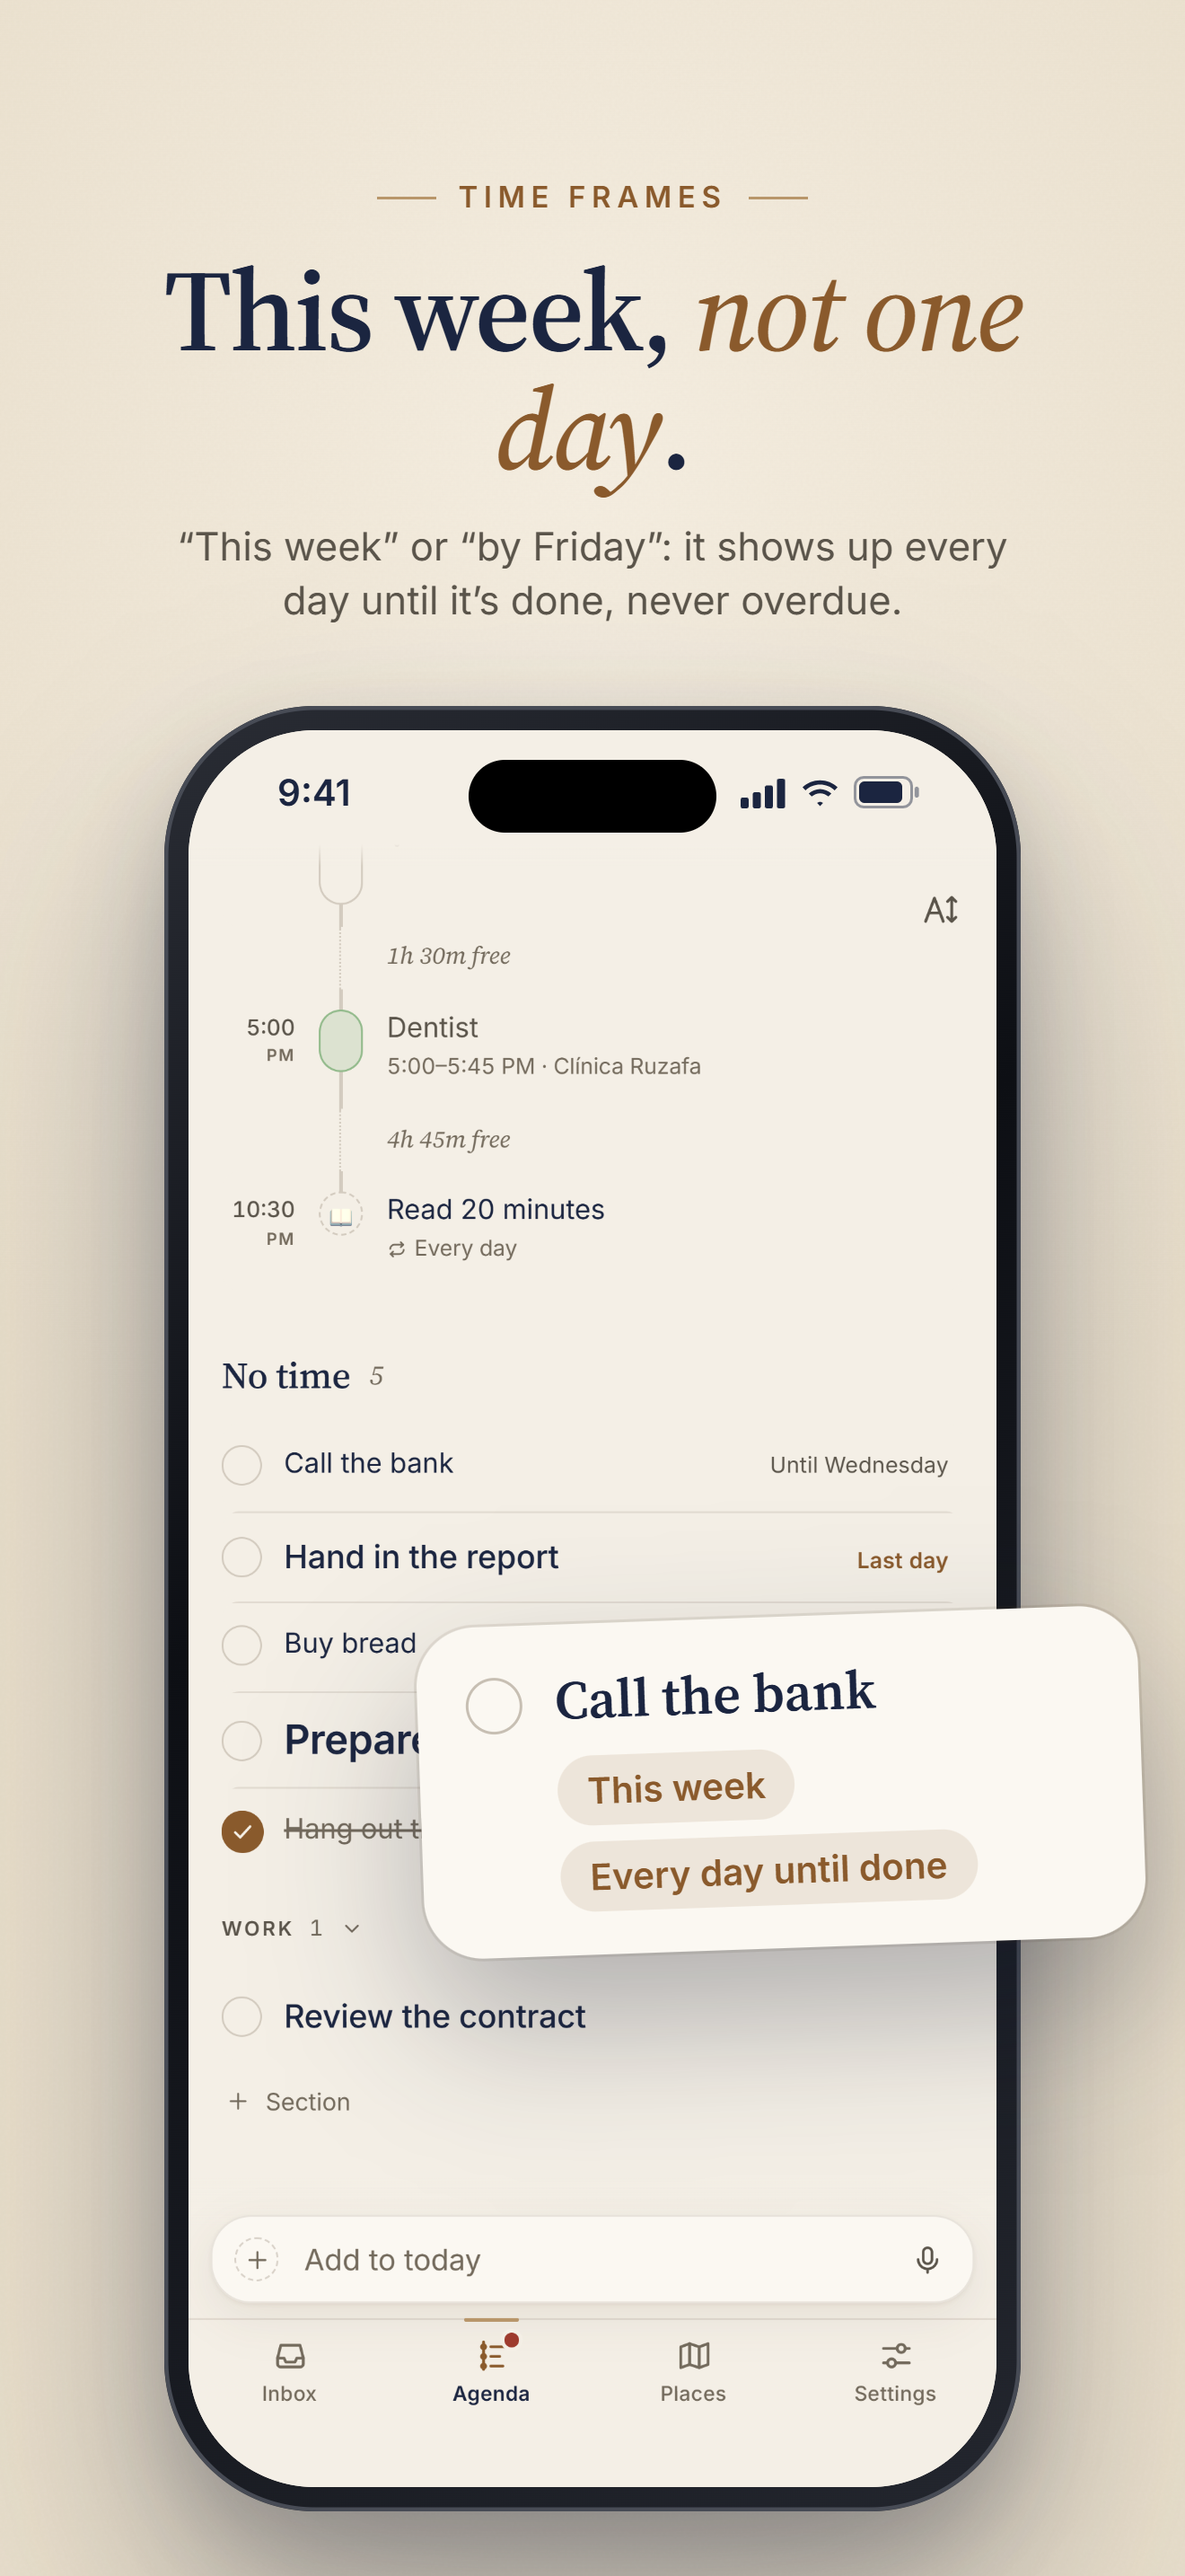
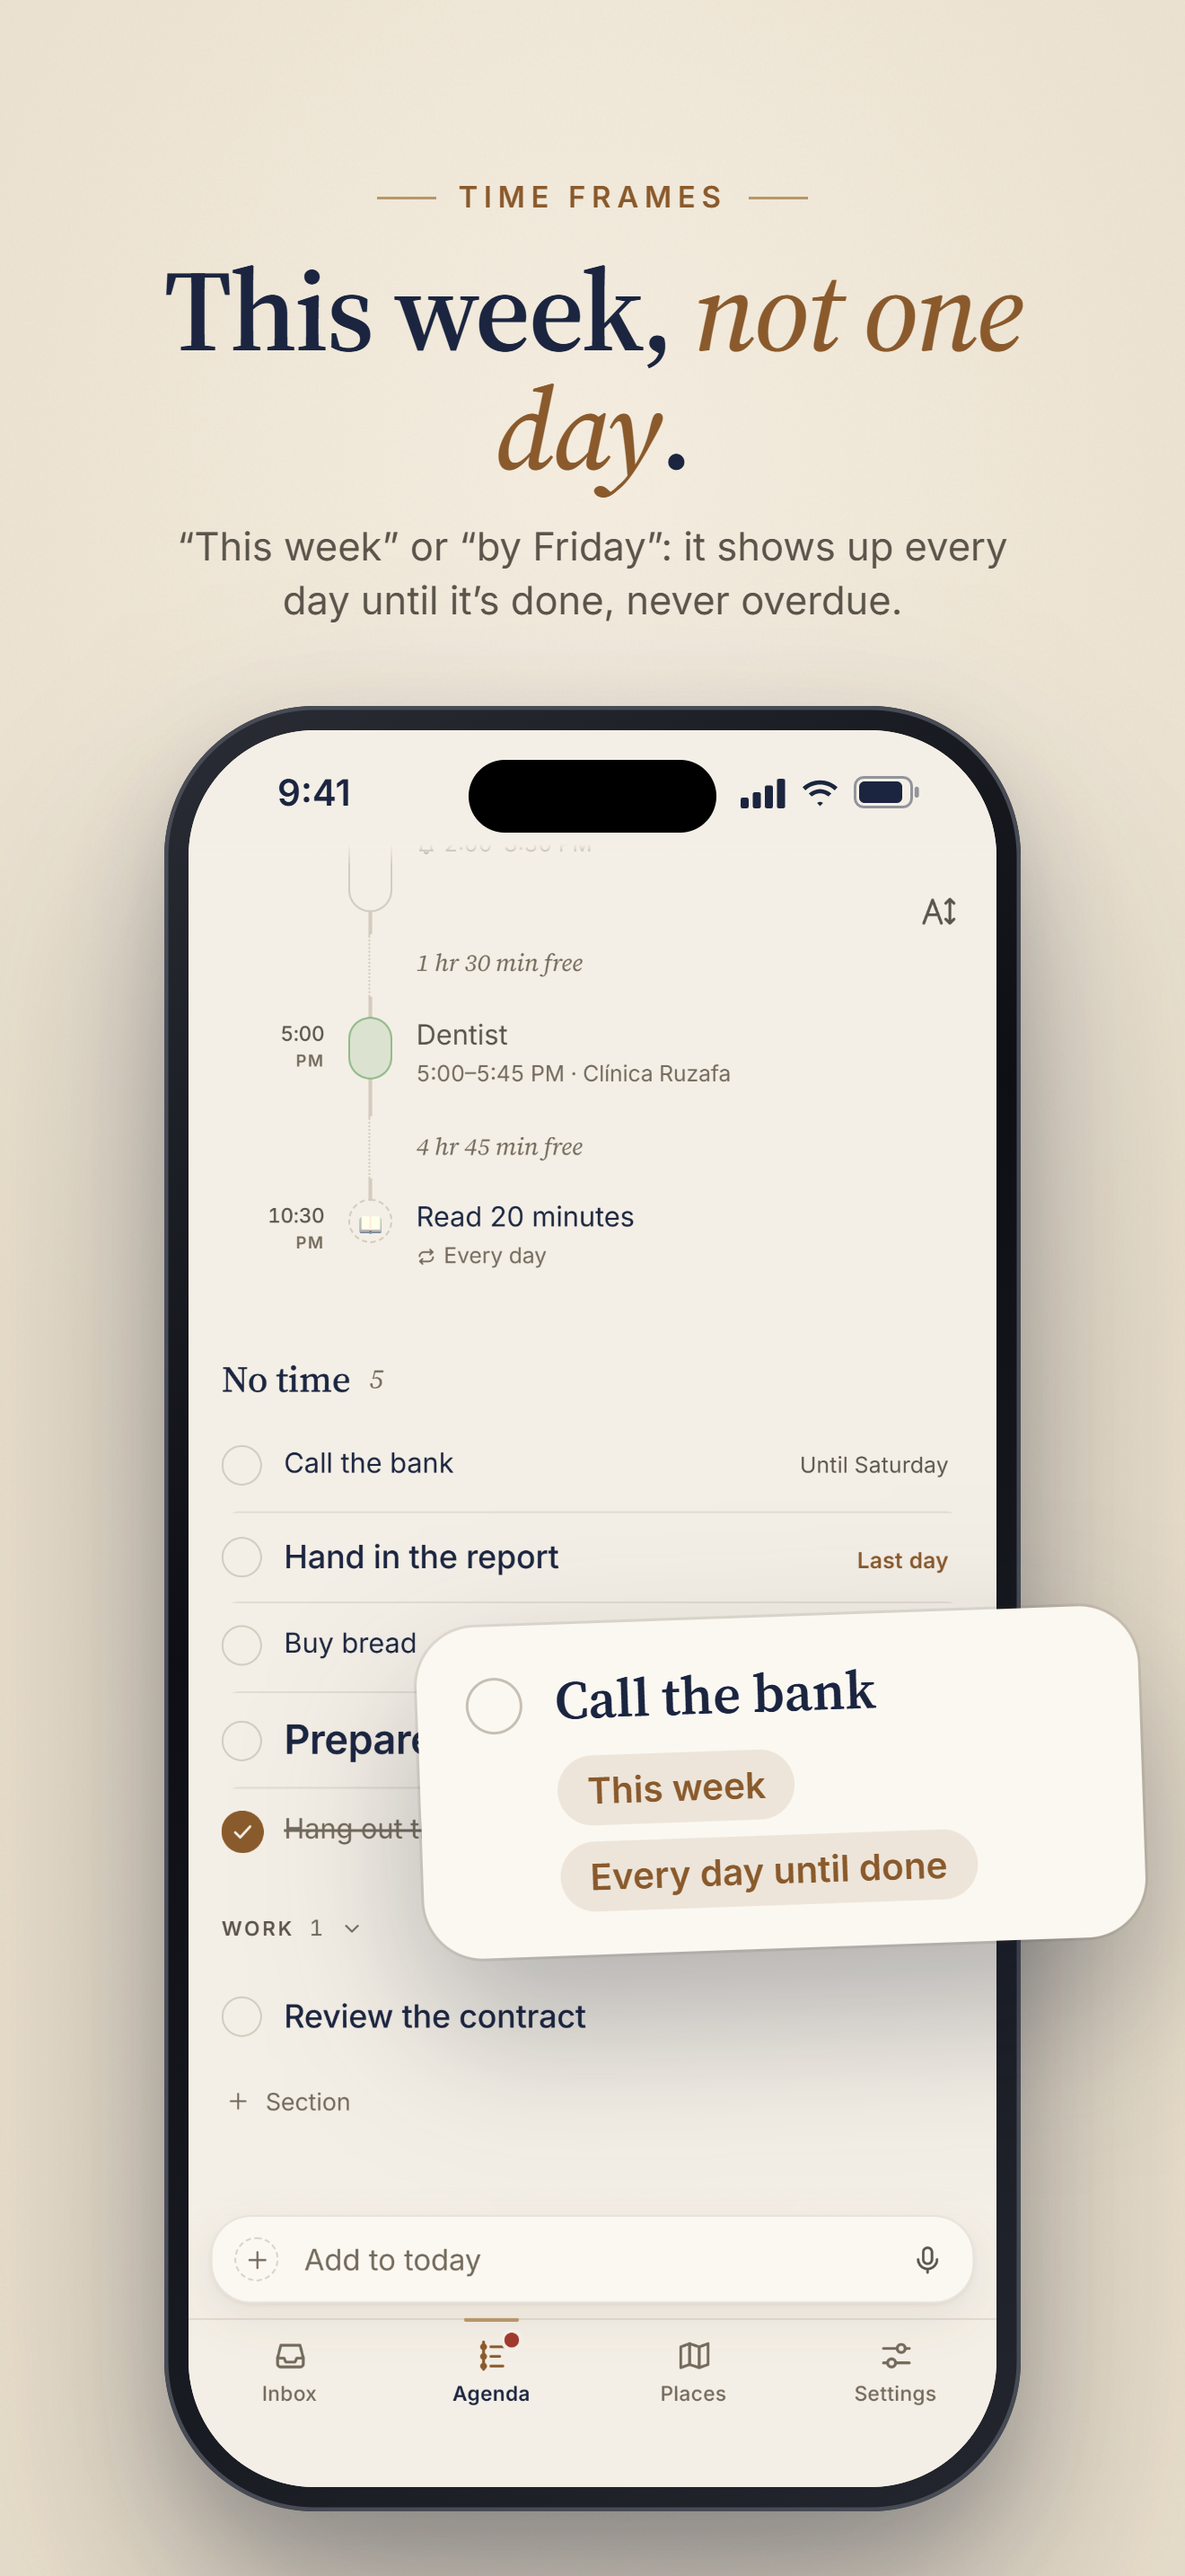
docs: capturas y novedades de la 1.7

diff --git a/docs/app-store.md b/docs/app-store.md
@@ -385,7 +385,7 @@ No sign-up, no ads, no analytics. Your tasks, places and location stay on your i
 New: your Google, iCloud or Outlook calendar next to your tasks, and your timed tasks in the calendar you choose, your work one too.
 ```
 
-**Capturas** (desde la 1.6): Apple exige al menos las de iPhone de 6,9" (1320 × 2868 px). Hay dos
+**Capturas** (desde la 1.6; rehechas para la 1.7 con la interfaz de la auditoría): Apple exige al menos las de iPhone de 6,9" (1320 × 2868 px). Hay dos
 juegos de diez, a ese tamaño exacto y numerados en el orden en que se suben: en español en
 [`docs/capturas/`](capturas/) y en inglés en [`docs/capturas/en/`](capturas/en/). Las tres primeras son
 las que salen en la búsqueda, así que dicen lo que hace la app distinta, no la lista de funciones:
@@ -705,7 +705,7 @@ versión nueva y su revisión. Lo demás sigue igual:
 Release) es la versión que se publica y tiene que ser mayor que la última aprobada: App Store Connect
 rechaza las compilaciones de una versión ya aprobada y el CI falla al subir (`ITMS-90186`,
 `ITMS-90062`), también la ejecución programada del día 1. Por eso, **en cuanto Apple apruebe una
-versión, se sube** (1.5 → 1.6…) antes del siguiente push que toque la app. Ahora es la 1.5.
+versión, se sube** (1.6 → 1.7…) antes del siguiente push que toque la app. Ahora es la 1.7.
 
 ### 9.2 Probar la compilación (tú, en el iPhone)
 
@@ -998,4 +998,39 @@ de la versión es la búsqueda pública de la App Store y no lleva datos del usu
 • Use Google or Outlook? Settings → Calendar walks you through adding it.
 • A + on each section to add a task right into it.
 • When a new version is out, we’ll let you know when you open the app.
+```
+
+### 9.9 La 1.7 (13/10/2026, compilación 45)
+
+La 1.6 se aprobó el 13/10/2026. La 1.7 es la de la auditoría de experiencia (`docs/auditoria/`): casi
+todo son arreglos y retoques, más lo que pidió el usuario al probarla (la regla, la barra y el deslizador
+como antes; el radio desde 20 m) y lo del buzón (el mapa de Lugares). Se envía la **1.7 (45)**.
+
+Cambian las **capturas** (las veinte: la que más, `02-lugares`, con el buscador encima del mapa; las demás
+traen retoques de la auditoría). **No cambian** la descripción, las palabras clave, el texto promocional,
+las notas para la revisión (§5: lo que cuentan sigue valiendo, *Elegir en el mapa* incluido) ni la
+privacidad (el mapa es de Apple y no se recoge nada nuevo).
+
+**Antes (en el iPhone, 2 minutos)**: el «Hecha» de las novedades. Una tarea `probar en 2 minutos`,
+bloquear el iPhone y, cuando suene, mantener pulsado el aviso → **Hecha**: no debe abrirse la app y, al
+abrirla, la tarea sale tachada.
+
+**Novedades de esta versión**
+
+```
+• «Hecha» en el aviso de una tarea la tacha sin abrir la app, también con el iPhone bloqueado.
+• Lugares: toca el mapa para verlos todos con su radio y añade uno nuevo con una chincheta. El radio ya baja hasta 20 m.
+• Deshacer en todo: borrar un lugar, quitar un aviso, posponer, importar una copia…
+• El panel de cada tarea, más claro: el círculo para tacharla arriba y cada aviso con su ×.
+• Ajustes más ordenado y decenas de pequeños retoques en toda la app.
+```
+
+**What’s New in This Version** (la ficha en inglés)
+
+```
+• “Done” on a task’s notification checks it off without opening the app, even with your iPhone locked.
+• Places: tap the map to see them all with their radius, and drop a pin to add a new one. The radius now goes down to 20 m.
+• Undo everywhere: deleting a place, removing a reminder, snoozing, importing a backup…
+• A clearer task sheet: the circle to check it off at the top, and an × on each reminder.
+• Tidier Settings and dozens of small touches all over the app.
 ```

diff --git a/CLAUDE.md b/CLAUDE.md
@@ -286,6 +286,10 @@ la PWA (solo ve horas y contenido cifrado) y transcribe el dictado.
     `.app__scroll`): con `overflow-y: auto`, el eje x pasa a `auto`, y lo que asomaba por un lado al
     arrastrar (el halo de la regla al final, el valor encima del dedo en el borde del deslizador) dejaba
     arrastrar el panel de lado.
+  - **Probada en el iPhone** por el usuario: «ya funciona todo bien». **Ficha de la 1.7 preparada**: capturas
+    rehechas (`docs/capturas/` y `en/`, la que cambia de verdad es `02-lugares`) y novedades en los dos
+    idiomas (`docs/app-store.md` §9.9). Descripción, palabras clave, texto promocional, notas y
+    privacidad, sin cambios. Se envía la **1.7 (45)**.
 
 - **Auditoría de experiencia incorporada** (13/10/2026, en `capacitor`, doce commits de `346c230` a
   `32c29f8` (el último, lo que encontró la revisión de código); el Swift nuevo sin compilar aún en el CI; sin probar en el iPhone ni unida a `main`). Lo
@@ -325,6 +329,9 @@ la PWA (solo ve horas y contenido cifrado) y transcribe el dictado.
     sección vacía creada en una ficha descartada, y el rebote del muelle la primera vez (30).
 
 **Pendiente, en este orden**
+
+0. **Enviar la 1.7 (45)** (`docs/app-store.md` §9.9; los pasos al usuario, en el chat). Antes, el «Hecha»
+   del aviso con el iPhone bloqueado, que sale en las novedades.
 
 0. **Probar en el iPhone la TestFlight 45**: arrastrar la regla de la duración y el radio de un lugar
    (que no se suelten al desviar el dedo y que el panel no se mueva de lado). De la 44: la barra de
